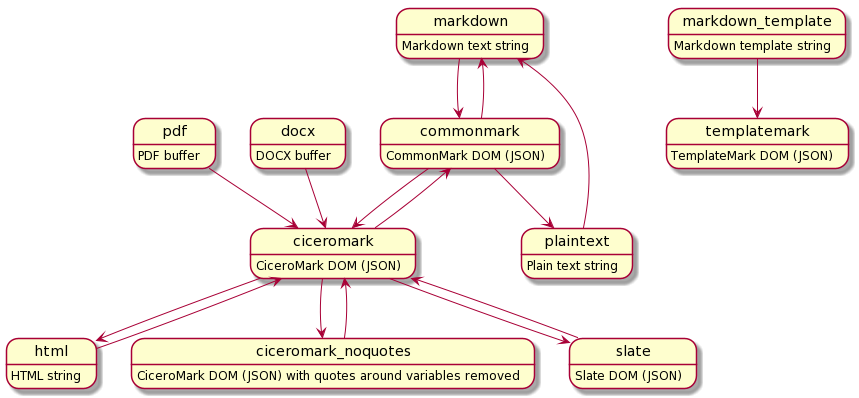
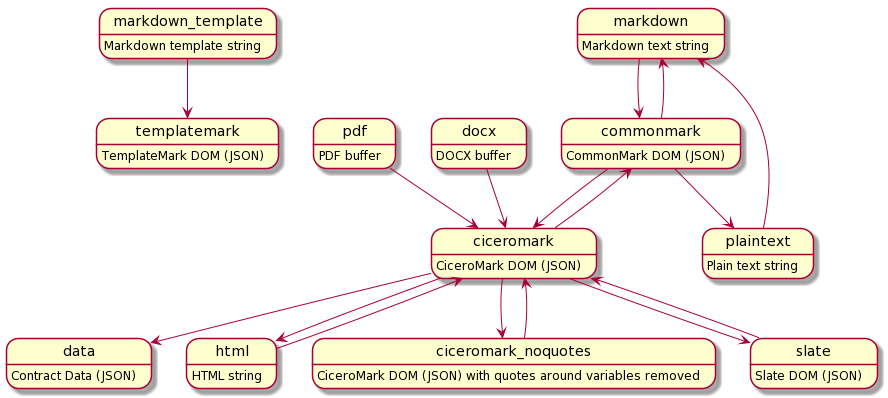
feature(CLI) parse is now accessible as a transform in the CLI

diff --git a/packages/markdown-transform/lib/transform.js b/packages/markdown-transform/lib/transform.js
@@ -30,7 +30,21 @@ const DocxTransformer = require('@accordproject/markdown-docx').DocxTransformer;
 /**
  * The graph of transformation supported
  */
+const markdownTemplateToTemplateMark = async (input,parameters,options) => {
+    const t = new TemplateMarkTransformer();
+    const modelManager = await ModelLoader.loadModelManager(null, parameters.ctoFiles);
+    return t.fromMarkdownTemplate({ fileName:parameters.inputFileName, content:input }, modelManager, parameters.templateKind, options);
+};
 const transformationGraph = {
+    markdown_template : {
+        docs: 'Markdown template string',
+        fileFormat: 'utf8',
+        templatemark: markdownTemplateToTemplateMark,
+    },
+    templatemark : {
+        docs: 'TemplateMark DOM (JSON)',
+        fileFormat: 'json'
+    },
     markdown : {
         docs: 'Markdown text string',
         fileFormat: 'utf8',
@@ -39,18 +53,9 @@ const transformationGraph = {
             return t.fromMarkdown(input, 'json');
         },
     },
-    markdown_template : {
-        docs: 'Markdown template string',
-        fileFormat: 'utf8',
-        templatemark : async (input,parameters,options) => {
-            const t = new TemplateMarkTransformer();
-            const modelManager = await ModelLoader.loadModelManager(null, parameters.ctoFiles);
-            return t.fromMarkdownTemplate({ fileName:parameters.inputFileName, content:input }, modelManager, parameters.templateKind, options);
-        },
-    },
-    templatemark : {
-        docs: 'TemplateMark DOM (JSON)',
-        fileFormat: 'json'
+    data : {
+        docs: 'Contract Data (JSON)',
+        fileFormat: 'json',
     },
     commonmark: {
         docs: 'CommonMark DOM (JSON)',
@@ -94,7 +99,15 @@ const transformationGraph = {
         slate: (input,parameters,options) => {
             const slateTransformer = new SlateTransformer();
             return slateTransformer.fromCiceroMark(input);
-        }
+        },
+        data: async (input,parameters,options) => {
+            const t = new TemplateMarkTransformer();
+            const modelManager = await ModelLoader.loadModelManager(null, parameters.ctoFiles);
+            const templateParameters = Object.assign({},parameters);
+            templateParameters.inputFileName = parameters.grammarFileName;
+            const templateMark = await markdownTemplateToTemplateMark(parameters.grammar,templateParameters,options);
+            return t.parseCiceroMark({ fileName:parameters.inputFileName, content:input }, templateMark, modelManager, parameters.templateKind, options);
+        },
     },
     ciceromark_noquotes: {
         docs: 'CiceroMark DOM (JSON) with quotes around variables removed',

diff --git a/packages/markdown-cli/index.js b/packages/markdown-cli/index.js
@@ -63,6 +63,10 @@ require('yargs')
             type: 'string',
             array: true
         });
+        yargs.option('grammar', {
+            describe: 'template grammar',
+            type: 'string'
+        });
         yargs.option('contract', {
             describe: 'contract template',
             type: 'boolean',
@@ -78,62 +82,13 @@ require('yargs')
             const parameters = {};
             parameters.inputFileName = argv.input;
             parameters.ctoFiles = argv.ctoFiles;
+            parameters.grammar = argv.grammar;
             parameters.templateKind = argv.contract ? 'contract' : 'clause';
             const options = {};
             options.verbose = argv.verbose;
             options.sourcePos = argv.sourcePos;
             options.roundtrip = argv.roundtrip;
             return Commands.transform(argv.input, argv.from, argv.to, argv.output, parameters, options)
-                .then((result) => {
-                    if(result) {Logger.info('\n'+result);}
-                })
-                .catch((err) => {
-                    Logger.error(err.message);
-                });
-        } catch (err){
-            Logger.error(err.message);
-            return;
-        }
-    })
-    .command('parse', 'parse a string against a template', (yargs) => {
-        yargs.option('input', {
-            describe: 'path to the input',
-            type: 'string'
-        });
-        yargs.option('grammar', {
-            describe: 'path to the template grammar',
-            type: 'string'
-        });
-        yargs.option('ctoFiles', {
-            describe: 'array of CTO files',
-            type: 'string',
-            array: true
-        });
-        yargs.option('contract', {
-            describe: 'contract template',
-            type: 'boolean',
-            default: false
-        });
-        yargs.option('output', {
-            describe: 'path to the output file',
-            type: 'string'
-        });
-        yargs.option('verbose', {
-            describe: 'verbose output',
-            type: 'boolean',
-            default: false
-        });
-    }, (argv) => {
-        if (argv.verbose) {
-            Logger.info(`transform input ${argv.input} file`);
-        }
-
-        try {
-            argv = Commands.validateTransformArgs(argv);
-            const templateKind = argv.contract ? 'contract' : 'clause';
-            const options = {};
-            options.verbose = argv.verbose;
-            return Commands.parse(argv.input, argv.grammar, argv.ctoFiles, templateKind, argv.output, options)
                 .then((result) => {
                     if(result) {Logger.info('\n'+result);}
                 })

diff --git a/packages/markdown-template/lib/TemplateMarkTransformer.js b/packages/markdown-template/lib/TemplateMarkTransformer.js
@@ -21,6 +21,7 @@ const CommonMarkTransformer = require('@accordproject/markdown-common').CommonMa
 const { NS_PREFIX_TemplateMarkModel, TemplateMarkModel } = require('./externalModels/TemplateMarkModel.js');
 const normalizeNLs = require('./normalize').normalizeNLs;
 const normalizeMarkdown = require('./normalize').normalizeMarkdown;
+const normalizeToMarkdown = require('./normalize').normalizeToMarkdown;
 const TypingVisitor = require('./TypingVisitor');
 const TemplateMarkVisitor = require('./TemplateMarkVisitor');
 
@@ -241,7 +242,6 @@ class TemplateMarkTransformer {
         const serializer = new Serializer(factory, modelManager);
 
         // Translate grammar to TemplateMark
-        //const typedTemplate = this.fromMarkdownTemplateRaw(grammarInput, modelManager, templateKind, options);
         const typedTemplate = this.fromMarkdownTemplate(grammarInput, modelManager, templateKind, options);
 
         // Construct the template parser
@@ -250,6 +250,36 @@ class TemplateMarkTransformer {
         // Load the markdown input
         const markdown = normalizeMarkdown(markdownInput.content);
         const markdownFileName = markdownInput.fileName;
+
+        // Parse the markdown
+        let result = parser.parse(markdown);
+        if (result.status) {
+            return serializer.toJSON(serializer.fromJSON(result.value));
+        } else {
+            _throwParseError(markdown,result,markdownFileName);
+        }
+    }
+
+    /**
+     * Parse a CiceroMark DOM against a TemplateMark DOM
+     * @param {{fileName:string,content:string}} markdown the markdown input
+     * @param {{fileName:string,content:string}} grammar the template grammar
+     * @param {object} modelManager - the model manager for this template
+     * @param {string} templateKind - either 'clause' or 'contract'
+     * @param {object} [options] configuration options
+     * @param {boolean} [options.verbose] verbose output
+     * @returns {object} the result of parsing
+     */
+    parseCiceroMark(ciceroMarkInput, templateMarkInput, modelManager, templateKind, options) {
+        const factory = new Factory(modelManager);
+        const serializer = new Serializer(factory, modelManager);
+
+        // Construct the template parser
+        const parser = parserOfTemplate(templateMarkInput,{contract:false});
+
+        // Load the markdown input
+        const markdown = normalizeToMarkdown(ciceroMarkInput.content);
+        const markdownFileName = ciceroMarkInput.fileName;
 
         // Parse the markdown
         let result = parser.parse(markdown);

diff --git a/packages/markdown-cli/lib/commands.js b/packages/markdown-cli/lib/commands.js
@@ -141,6 +141,11 @@ class Commands {
      */
     static async transform(inputPath, from, to, outputPath, parameters, options) {
         const input = Commands.loadFormatFromFile(inputPath, from);
+        parameters.inputFileName = inputPath;
+        if (parameters.grammar) {
+            parameters.grammarFileName = parameters.grammar;
+            parameters.grammar = Commands.loadFormatFromFile(parameters.grammar,'markdown_template');
+        }
         let result = await transform(input, from, [to], parameters, options);
         let finalFormat = to;
         if (options && options.roundtrip) {
@@ -150,31 +155,6 @@ class Commands {
 
         if (outputPath) { Commands.printFormatToFile(result,finalFormat,outputPath); }
         return Promise.resolve(Commands.printFormatToString(result,finalFormat));
-    }
-
-    /**
-     * Parse against a template grammar
-     *
-     * @param {string} inputPath to the input file
-     * @param {string} grammarPath to the grammar file
-     * @param {string[]} ctoFiles - the CTO files (can be local file paths or URLs)
-     * @param {string} templateKind - either 'clause' or 'contract'
-     * @param {string} outputPath to an output file
-     * @param {object} [options] configuration options
-     * @param {boolean} [options.verbose] verbose output
-     * @returns {object} Promise to the result of parsing
-     */
-    static async parse(inputPath, grammarPath, ctoFiles, templateKind, outputPath, options) {
-        const markdownInput = { 'fileName': inputPath, 'content' : Fs.readFileSync(inputPath, 'utf8') };
-        const grammarInput = { 'fileName': grammarPath, 'content' : Fs.readFileSync(grammarPath, 'utf8') };
-
-        const modelManager = await ModelLoader.loadModelManager(null, ctoFiles);
-
-        const templateMarkTransformer = new TemplateMarkTransformer();
-        const result = templateMarkTransformer.parse(markdownInput,grammarInput,modelManager,templateKind,options);
-
-        if (outputPath) { Commands.printFormatToFile(result,finalFormat,outputPath); }
-        return Promise.resolve(JSON.stringify(result));
     }
 }
 

diff --git a/packages/markdown-transform/test/transform.js b/packages/markdown-transform/test/transform.js
@@ -52,9 +52,10 @@ describe('#transform', () => {
 
     describe('#markdown_template', () => {
         it('markdown_template -> templatemark', async () => {
-            const grammar1 = fs.readFileSync('./test/data/template1/grammar1.tem.md', 'utf8');
+            const grammar1File = './test/data/template1/grammar1.tem.md';
+            const grammar1 = fs.readFileSync(grammar1File, 'utf8');
             const model1 = './test/data/template1/model1.cto';
-            const parameters = { inputFileName: './test/data/template1/grammar1.tem.md', ctoFiles: [model1], templateKind: 'clause' };
+            const parameters = { inputFileName: grammar1File, ctoFiles: [model1], templateKind: 'clause' };
             const result = await transform(grammar1, 'markdown_template', ['templatemark'], parameters, {});
             result.$class.should.equal('org.accordproject.templatemark.ClauseDefinition');
         });
@@ -103,6 +104,18 @@ describe('#transform', () => {
         it('ciceromark -> slate', async () => {
             const result = await transform(acceptanceCiceroMark, 'ciceromark', ['slate'], {}, {});
             result.document.object.should.equal('document');
+        });
+
+        it('ciceromark -> data', async () => {
+            const grammar1File = './test/data/template1/grammar1.tem.md';
+            const grammar1 = fs.readFileSync(grammar1File, 'utf8');
+            const model1 = './test/data/template1/model1.cto';
+            const sample1File = './test/data/template1/sample1.md';
+            const sample1 = fs.readFileSync(sample1File, 'utf8');
+            const parameters = { inputFileName: grammar1File, grammar: grammar1, ctoFiles: [model1], templateKind: 'clause' };
+            const result = await transform(sample1, 'markdown', ['data'], parameters, {});
+            result.$class.should.equal('org.test.MyClause');
+            result.seller.should.equal('Steve');
         });
     });
 

diff --git a/packages/markdown-template/lib/normalize.js b/packages/markdown-template/lib/normalize.js
@@ -28,6 +28,17 @@ function normalizeNLs(input) {
 }
 
 /**
+ * Normalize CiceroMark to markdown text
+ * @param {*} input - the CiceroMark DOM
+ * @return {string} - the normalized markdown text
+ */
+function normalizeToMarkdown(input) {
+    const ciceroMarkTransformer = new CiceroMarkTransformer();
+    const result = ciceroMarkTransformer.toMarkdown(input);
+    return result;
+}
+
+/**
  * Normalize markdown text
  * @param {string} input - the markdown text
  * @return {string} - the normalized markdown text
@@ -38,9 +49,10 @@ function normalizeMarkdown(input) {
     // Roundtrip the grammar through the Ciceromark parser
     const ciceroMarkTransformer = new CiceroMarkTransformer();
     const concertoAst = ciceroMarkTransformer.fromMarkdown(inputNLs);
-    const result = ciceroMarkTransformer.toMarkdown(concertoAst);
+    const result = normalizeToMarkdown(concertoAst);
     return result;
 }
 
 module.exports.normalizeNLs = normalizeNLs;
+module.exports.normalizeToMarkdown = normalizeToMarkdown;
 module.exports.normalizeMarkdown = normalizeMarkdown;

diff --git a/packages/markdown-transform/scripts/generateDiagram.js b/packages/markdown-transform/scripts/generateDiagram.js
@@ -43,6 +43,7 @@ async function downloadImage (url, filename) {
     });
 }
 const plantUML = generateTransformationDiagram();
+console.log('PLANT! ' + plantUML);
 const encoded = plantumlEncoder.encode(plantUML);
 const url = `https://www.plantuml.com/plantuml/png/${encoded}`;
 downloadImage(url, 'transformations.png');
